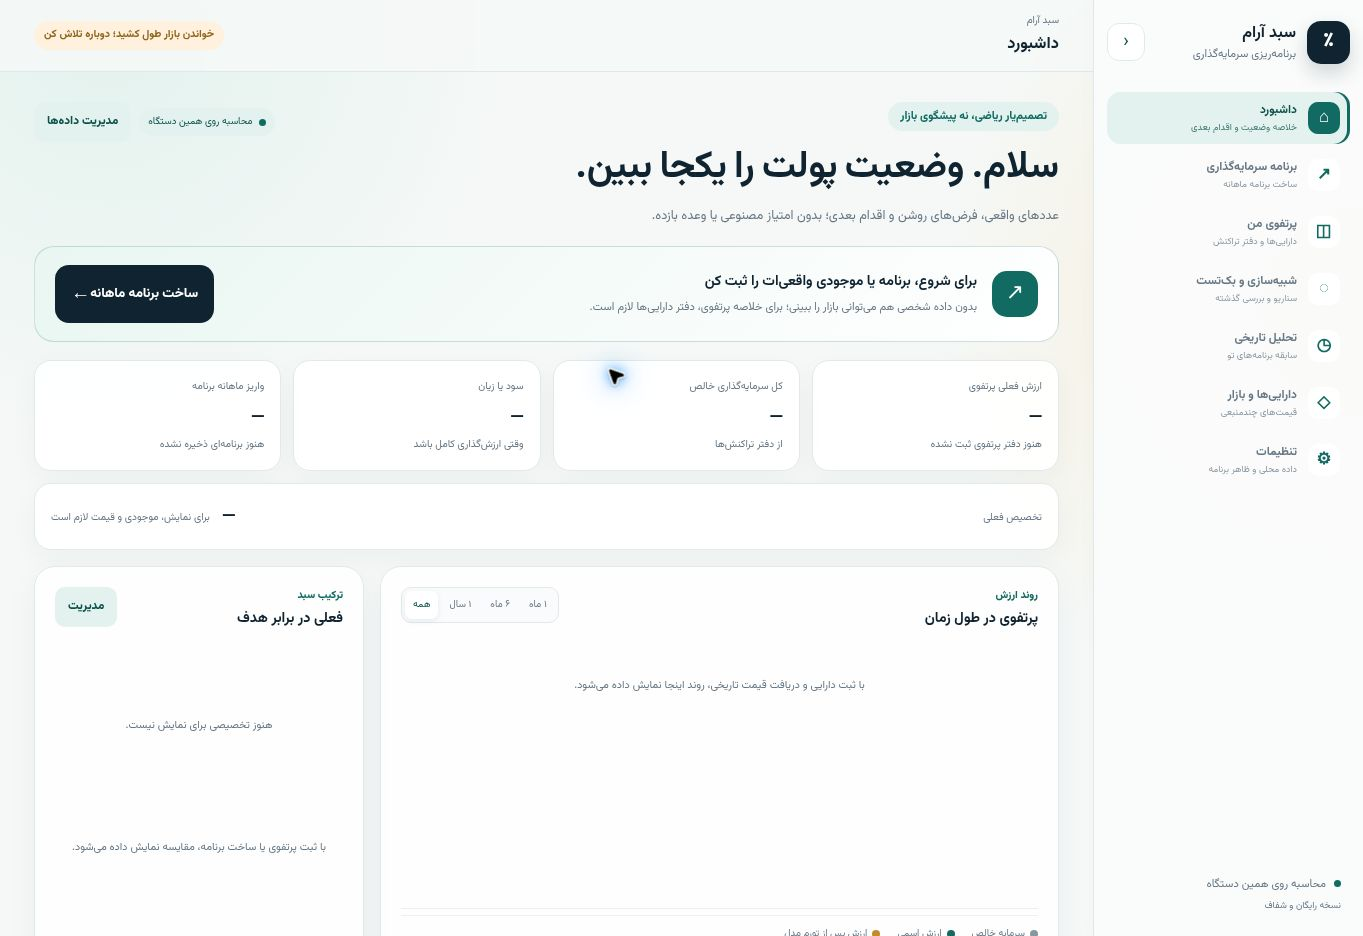
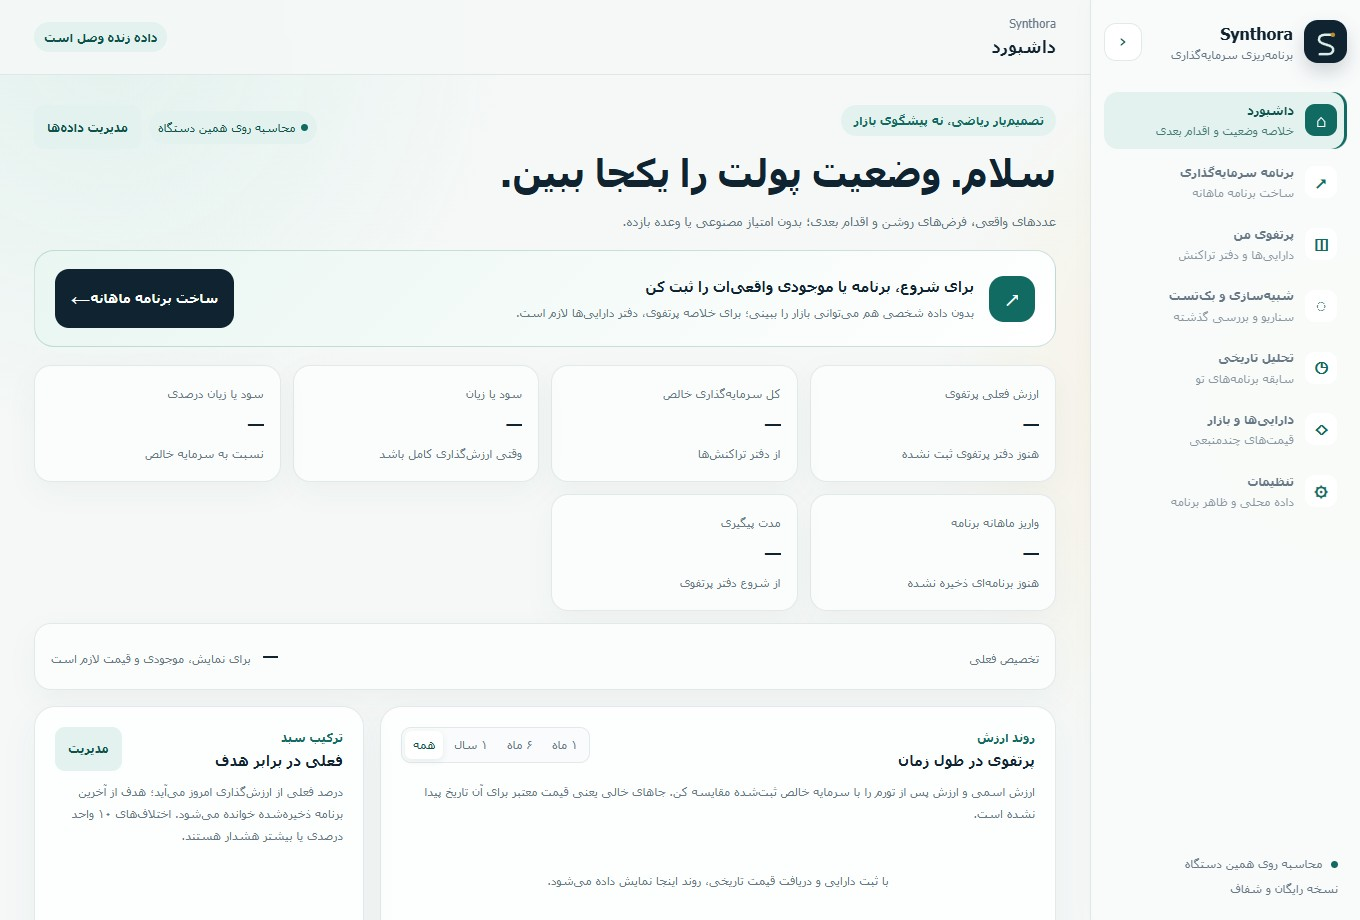
refactor: update project name from Invest Consult to Synthora across documentation and assets

diff --git a/index.html b/index.html
@@ -5,19 +5,22 @@
     <meta name="viewport" content="width=device-width, initial-scale=1" />
     <meta name="author" content="Taha Moeini" />
     <meta name="creator" content="Taha Moeini" />
-    <meta property="og:title" content="سبد آرام | برنامهریزی سرمایهگذاری" />
-    <meta property="og:description" content="برنامهریزی و پایش شخصی سرمایهگذاری در یک داشبورد محلی." />
+    <meta property="og:title" content="Synthora | برنامهریزی سرمایهگذاری" />
+    <meta property="og:description" content="Synthora ابزار شفاف برنامهریزی و پایش شخصی سرمایهگذاری است؛ با دادههای روشن، سناریوهای قابل بررسی و محاسبه روی دستگاه شما." />
     <meta property="og:type" content="website" />
     <meta property="og:url" content="https://investcons.negar.team/" />
-    <meta property="og:site_name" content="سبد آرام" />
+    <meta property="og:site_name" content="Synthora" />
     <link rel="canonical" href="https://investcons.negar.team/" />
     <meta name="theme-color" content="#102b36" />
-    <meta name="description" content="برنامهریزی شفاف و محافظهکارانه سرمایهگذاری ماهانه" />
+    <meta name="application-name" content="Synthora" />
+    <meta name="description" content="Synthora ابزار شفاف برنامهریزی و پایش شخصی سرمایهگذاری است؛ با دادههای روشن، سناریوهای قابل بررسی و محاسبه روی دستگاه شما." />
+    <link rel="icon" type="image/svg+xml" href="assets/synthora-mark.svg" />
     <script type="application/ld+json">
     {
       "@context": "https://schema.org",
       "@type": "SoftwareApplication",
-      "name": "سبد آرام",
+      "name": "Synthora",
+      "description": "ابزار شفاف برنامهریزی و پایش شخصی سرمایهگذاری با محاسبه محلی و سناریوهای قابل بررسی.",
       "url": "https://investcons.negar.team/",
       "applicationCategory": "FinanceApplication",
       "creator": {
@@ -27,7 +30,7 @@
       }
     }
     </script>
-    <title>سبد آرام | برنامهریزی سرمایهگذاری</title>
+    <title>Synthora | برنامهریزی سرمایهگذاری</title>
     <link rel="preconnect" href="https://fonts.googleapis.com" />
     <link rel="preconnect" href="https://fonts.gstatic.com" crossorigin />
     <link href="https://fonts.googleapis.com/css2?family=Vazirmatn:wght@400;500;600;700;800&display=swap" rel="stylesheet" />
@@ -38,7 +41,7 @@
     <div id="app-shell" class="app-shell">
       <aside id="app-sidebar" class="app-sidebar" aria-label="ناوبری برنامه">
         <div class="sidebar-header">
-          <a class="brand" href="./" aria-label="سبد آرام"><span class="brand-mark">٪</span><span class="brand-copy"><strong>سبد آرام</strong><small>برنامهریزی سرمایهگذاری</small></span></a>
+          <a class="brand" href="./" aria-label="Synthora"><span class="brand-mark" aria-hidden="true"><img src="assets/synthora-mark.svg" alt="" /></span><span class="brand-copy"><strong>Synthora</strong><small>برنامهریزی سرمایهگذاری</small></span></a>
           <button id="sidebar-toggle" class="sidebar-toggle" type="button" aria-label="باز و بسته کردن منو" aria-controls="app-sidebar" aria-expanded="true" title="باز و بسته کردن منو"><span>‹</span></button>
         </div>
         <nav id="app-navigation" class="app-navigation" aria-label="بخشهای برنامه">
@@ -56,7 +59,7 @@
       <div class="app-main">
         <header class="topbar">
           <button id="mobile-menu-toggle" class="mobile-menu-toggle" type="button" aria-label="باز کردن منو" aria-controls="app-sidebar" aria-expanded="false">☰</button>
-          <div class="topbar-title"><span>سبد آرام</span><h1 id="current-view-title">داشبورد</h1></div>
+          <div class="topbar-title"><span>Synthora</span><h1 id="current-view-title">داشبورد</h1></div>
           <div class="topbar-meta"><span id="live-status" class="status-pill status-loading">در حال دریافت داده</span></div>
         </header>
 
@@ -97,7 +100,7 @@
           <div>
             <span class="eyebrow">تصمیمیار ریاضی، نه پیشگوی بازار</span>
             <h1>برای آیندهات برنامه بچین، نه حدس.</h1>
-            <p>حقوق، هدف و شرایطت را وارد کن. سبد آرام با دادههای چندمنبعی، سابقه ثبتشده و چند سناریوی شفاف میگوید این ماه چقدر کنار بگذاری و پول جدید را چطور پخش کنی.</p>
+            <p>حقوق، هدف و شرایطت را وارد کن. Synthora با دادههای چندمنبعی، سابقه ثبتشده و چند سناریوی شفاف میگوید این ماه چقدر کنار بگذاری و پول جدید را چطور پخش کنی.</p>
             <div class="hero-points"><span>بدون وعده سود</span><span>بدون فروش اجباری</span><span>تاریخچه فقط روی دستگاه تو</span></div>
           </div>
           <div class="hero-card"><span>قاعده شروع</span><strong>۱۵٪ تا ۲۵٪</strong><small>از حقوق ماهانه، با امکان تغییر بر اساس شرایط واقعی تو</small><div><span>منطق</span><b>داده + سابقه + محدودیت ریسک</b></div><div><span>خروجی</span><b>مبلغ، وزن، دامنه و دلیل</b></div></div>

diff --git a/styles.css b/styles.css
@@ -26,7 +26,8 @@ button { color: inherit; }
 .page-shell { max-width: 1240px; margin: auto; padding: 26px 24px 34px; }
 .topbar { display: flex; align-items: center; justify-content: space-between; gap: 18px; }
 .brand { display: inline-flex; align-items: center; gap: 11px; color: inherit; text-decoration: none; }
-.brand-mark { display: grid; place-items: center; width: 43px; height: 43px; border-radius: 14px; background: var(--ink); color: white; font-size: 1.3rem; font-weight: 800; box-shadow: 0 9px 19px rgba(16, 35, 49, .18); }
+.brand-mark { display: grid; place-items: center; width: 43px; height: 43px; border-radius: 14px; background: var(--ink); box-shadow: 0 9px 19px rgba(16, 35, 49, .18); }
+.brand-mark img { display: block; width: 30px; height: 30px; }
 .brand strong, .brand small { display: block; }
 .brand strong { font-size: 1rem; }
 .brand small { margin-top: -3px; color: var(--muted); font-size: max(12px, .7rem); }

diff --git a/app.js b/app.js
@@ -1919,7 +1919,7 @@ function exportHistory() {
   const url = URL.createObjectURL(blob);
   const link = document.createElement("a");
   link.href = url;
-  link.download = `invest-consult-history-${new Date().toISOString().slice(0, 10)}.json`;
+  link.download = `synthora-history-${new Date().toISOString().slice(0, 10)}.json`;
   document.body.appendChild(link);
   link.click();
   link.remove();

diff --git a/README.md b/README.md
@@ -1,6 +1,6 @@
-# invest-consult
+# Synthora
 
-`invest-consult` is a free, transparent, browser-first investment planning tool for conservative personal portfolios in Iran.
+`Synthora` is a free, transparent, browser-first investment planning tool for conservative personal portfolios in Iran.
 
 It is a mathematical decision-support engine. It does not use an AI model to predict markets, make promises, or generate opaque recommendations.
 

diff --git a/CREATOR.md b/CREATOR.md
@@ -1,6 +1,6 @@
 # Creator
 
-Invest Consult is created by **Taha Moeini**.
+Synthora is created by **Taha Moeini**.
 
 Website: https://taha.one
 

diff --git a/docs/fintech-dashboard-audit.md b/docs/fintech-dashboard-audit.md
@@ -1,4 +1,4 @@
-# Invest Consult — fintech dashboard audit
+# Synthora — fintech dashboard audit
 
 Branch: `feat/dashboard-trust-hardening`
 

diff --git a/docs/qa-checklist.md b/docs/qa-checklist.md
@@ -1,4 +1,4 @@
-# Invest Consult — final QA checklist
+# Synthora — final QA checklist
 
 ## Automated checks
 
